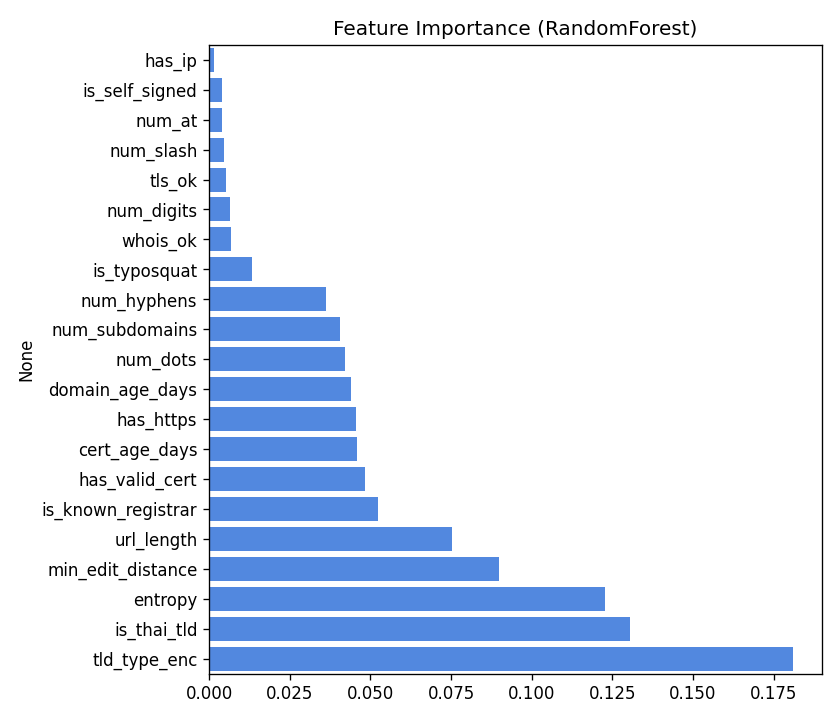
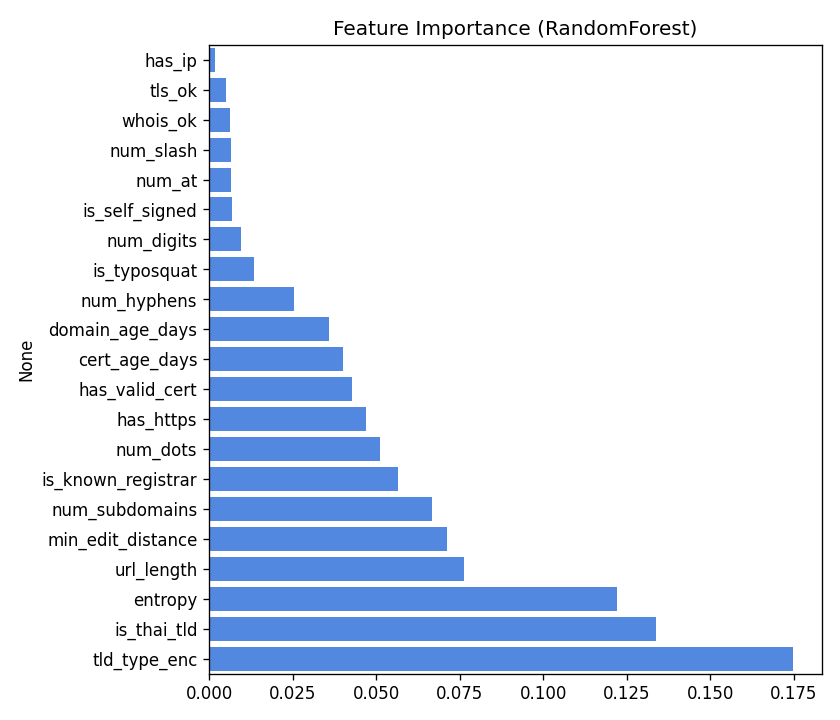
Add honest real-phishing holdout evaluation
Split fetched OpenPhish URLs 70/30: 70% join the training set, 30% are
written to data/real_phish_holdout.csv and consumed only by evaluate.py.
This gives a true generalisation metric instead of measuring memorisation.

The retrained ensemble hits 96.7% recall at the suspicious threshold and
93.3% recall at the phishing threshold on 90 real-world URLs the model
has never seen during training (recall on the synthetic test split is
99.6% / F1 0.996, ROC-AUC ~1.0). Holdout metrics are written to
reports/real_holdout_metrics.json.

Also refines the typosquat rule with a 4-char minimum on the host brand
label so short legitimate domains (scb.co.th, ktb.co.th) are no longer
false-positive typosquats.

diff --git a/ml_pipeline/evaluate.py b/ml_pipeline/evaluate.py
@@ -7,6 +7,7 @@ confusion matrix and a metrics JSON to ``reports/``.
 from __future__ import annotations
 
 import json
+import os
 
 import joblib
 import matplotlib
@@ -32,10 +33,13 @@ from phish_features import ORDERED_FEATURES
 from ml_pipeline.config import (
     METRICS_JSON,
     MODEL_PATH,
+    REAL_HOLDOUT_CSV,
+    REAL_HOLDOUT_METRICS_JSON,
     REPORTS_DIR,
     SCALER_PATH,
     ensure_dirs,
 )
+from ml_pipeline.feature_engineering import build_feature_frame
 from ml_pipeline.train import TEST_SPLIT_CSV
 
 
@@ -128,6 +132,58 @@ def main() -> None:
     with open(METRICS_JSON, "w", encoding="utf-8") as fh:
         json.dump(metrics, fh, indent=2)
     print(f"[eval] saved {METRICS_JSON}")
+    print("=" * 52)
+
+    # ------------------------------------------------------------------
+    # HONEST GENERALISATION CHECK: recall on real-world phishing URLs
+    # the model has never seen during training.
+    # ------------------------------------------------------------------
+    if os.path.exists(REAL_HOLDOUT_CSV):
+        evaluate_real_holdout(model, scaler)
+    else:
+        print(f"[eval] no real-phishing holdout found at {REAL_HOLDOUT_CSV} "
+              "(skipping generalisation check)")
+
+
+def evaluate_real_holdout(model, scaler) -> None:
+    frame = build_feature_frame(REAL_HOLDOUT_CSV)
+    X = frame[ORDERED_FEATURES].astype(float)
+    y_pred = model.predict(scaler.transform(X.to_numpy()))
+    y_proba = model.predict_proba(scaler.transform(X.to_numpy()))[:, 1]
+
+    flagged = (y_pred == 1).sum()
+    suspicious_or_phishing = (y_proba >= 0.30).sum()
+    n = len(X)
+
+    print()
+    print("=" * 52)
+    print("  HOLDOUT EVAL ON UNSEEN REAL PHISHING URLS")
+    print("=" * 52)
+    print(f"  Sample size           : {n}")
+    print(f"  Recall  (score >= 0.7): {flagged}/{n}  "
+          f"= {flagged / n:.4f}")
+    print(f"  Caught  (score >= 0.3): {suspicious_or_phishing}/{n}  "
+          f"= {suspicious_or_phishing / n:.4f}")
+    print(f"  Mean score            : {float(y_proba.mean()):.4f}")
+    print(f"  Median score          : {float(pd.Series(y_proba).median()):.4f}")
+
+    missed = frame.assign(score=y_proba)[y_proba < 0.30]
+    if len(missed):
+        print(f"  Examples MISSED ({min(5, len(missed))} of {len(missed)}):")
+        for _, row in missed.head(5).iterrows():
+            print(f"    - {row['url']}  (score={row['score']:.2f})")
+
+    metrics = {
+        "sample_size": int(n),
+        "recall_phishing_threshold": round(float(flagged) / n, 4),
+        "recall_suspicious_threshold": round(float(suspicious_or_phishing) / n, 4),
+        "mean_score": round(float(y_proba.mean()), 4),
+        "median_score": round(float(pd.Series(y_proba).median()), 4),
+        "missed_count": int(len(missed)),
+    }
+    with open(REAL_HOLDOUT_METRICS_JSON, "w", encoding="utf-8") as fh:
+        json.dump(metrics, fh, indent=2)
+    print(f"  Saved {REAL_HOLDOUT_METRICS_JSON}")
     print("=" * 52)
 
 

diff --git a/ml_pipeline/collect_dataset.py b/ml_pipeline/collect_dataset.py
@@ -27,6 +27,8 @@ from ml_pipeline.config import (
     PHISHTANK_URL,
     RANDOM_SEED,
     RAW_DIR,
+    REAL_HOLDOUT_CSV,
+    REAL_HOLDOUT_FRACTION,
     TARGET_ROWS,
     WHITELIST_CSV,
     ensure_dirs,
@@ -103,23 +105,27 @@ def main(use_feeds: bool = True) -> None:
     n_legit = len(rows)
     print(f"[dataset] legitimate rows: {n_legit}")
 
-    # --- real phishing (optional) ---
-    real_rows: list[dict] = []
+    # --- real phishing (optional) -- split into training + held-out test ---
+    real_train: list[dict] = []
+    real_holdout: list[dict] = []
     if use_feeds:
         feed_urls = _fetch_feed_urls(max_urls=n_each // 2)
-        for url in feed_urls:
+        gen.rng.shuffle(feed_urls)
+        n_holdout = int(round(len(feed_urls) * REAL_HOLDOUT_FRACTION))
+        for i, url in enumerate(feed_urls):
             net = gen.sim_network(1, url.startswith("https://"))
-            real_rows.append({"url": url, "label": 1, **net})
-    print(f"[dataset] real phishing rows: {len(real_rows)}")
+            row = {"url": url, "label": 1, **net}
+            (real_holdout if i < n_holdout else real_train).append(row)
+    print(f"[dataset] real phishing -- train: {len(real_train)}  "
+          f"holdout: {len(real_holdout)}")
 
-    # --- synthetic phishing top-up to balance the classes ---
-    need = n_legit - len(real_rows)
+    # --- synthetic phishing top-up to balance the classes (training only) ---
+    need = n_legit - len(real_train)
     synth_phish = gen.generate(n_legit=0, n_phish=max(need, 0))
     print(f"[dataset] synthetic phishing rows: {len(synth_phish)}")
 
-    rows.extend(real_rows)
+    rows.extend(real_train)
     rows.extend(synth_phish)
-
     gen.rng.shuffle(rows)
 
     with open(DATASET_CSV, "w", newline="", encoding="utf-8") as fh:
@@ -129,8 +135,20 @@ def main(use_feeds: bool = True) -> None:
             writer.writerow({k: r.get(k, "") for k in _FIELDS})
 
     n_phish = sum(r["label"] == 1 for r in rows)
-    print(f"[dataset] wrote {len(rows)} rows -> {DATASET_CSV}")
+    print(f"[dataset] wrote {len(rows)} training rows -> {DATASET_CSV}")
     print(f"[dataset]   legitimate={len(rows) - n_phish}  phishing={n_phish}")
+
+    # --- write the held-out real-phishing test set ---
+    if real_holdout:
+        with open(REAL_HOLDOUT_CSV, "w", newline="", encoding="utf-8") as fh:
+            writer = csv.DictWriter(fh, fieldnames=_FIELDS)
+            writer.writeheader()
+            for r in real_holdout:
+                writer.writerow({k: r.get(k, "") for k in _FIELDS})
+        print(f"[dataset] wrote {len(real_holdout)} real-phishing holdout "
+              f"rows -> {REAL_HOLDOUT_CSV}")
+    else:
+        print("[dataset] no real-phishing holdout written (no feed URLs)")
 
 
 if __name__ == "__main__":

diff --git a/ml_pipeline/config.py b/ml_pipeline/config.py
@@ -17,10 +17,17 @@ WHITELIST_JSON = os.path.join(MODELS_DIR, "whitelist.json")
 DATASET_CSV = os.path.join(DATA_DIR, "dataset.csv")
 RAW_DIR = os.path.join(DATA_DIR, "raw")
 
+REAL_HOLDOUT_CSV = os.path.join(DATA_DIR, "real_phish_holdout.csv")
+
 MODEL_PATH = os.path.join(MODELS_DIR, "ensemble.pkl")
 SCALER_PATH = os.path.join(MODELS_DIR, "scaler.pkl")
 FEATURES_JSON = os.path.join(MODELS_DIR, "features.json")
 METRICS_JSON = os.path.join(REPORTS_DIR, "metrics.json")
+REAL_HOLDOUT_METRICS_JSON = os.path.join(REPORTS_DIR, "real_holdout_metrics.json")
+
+# Fraction of fetched real phishing URLs reserved as a held-out test set
+# that the model never sees during training.
+REAL_HOLDOUT_FRACTION = 0.30
 
 # Reproducibility.
 RANDOM_SEED = 42